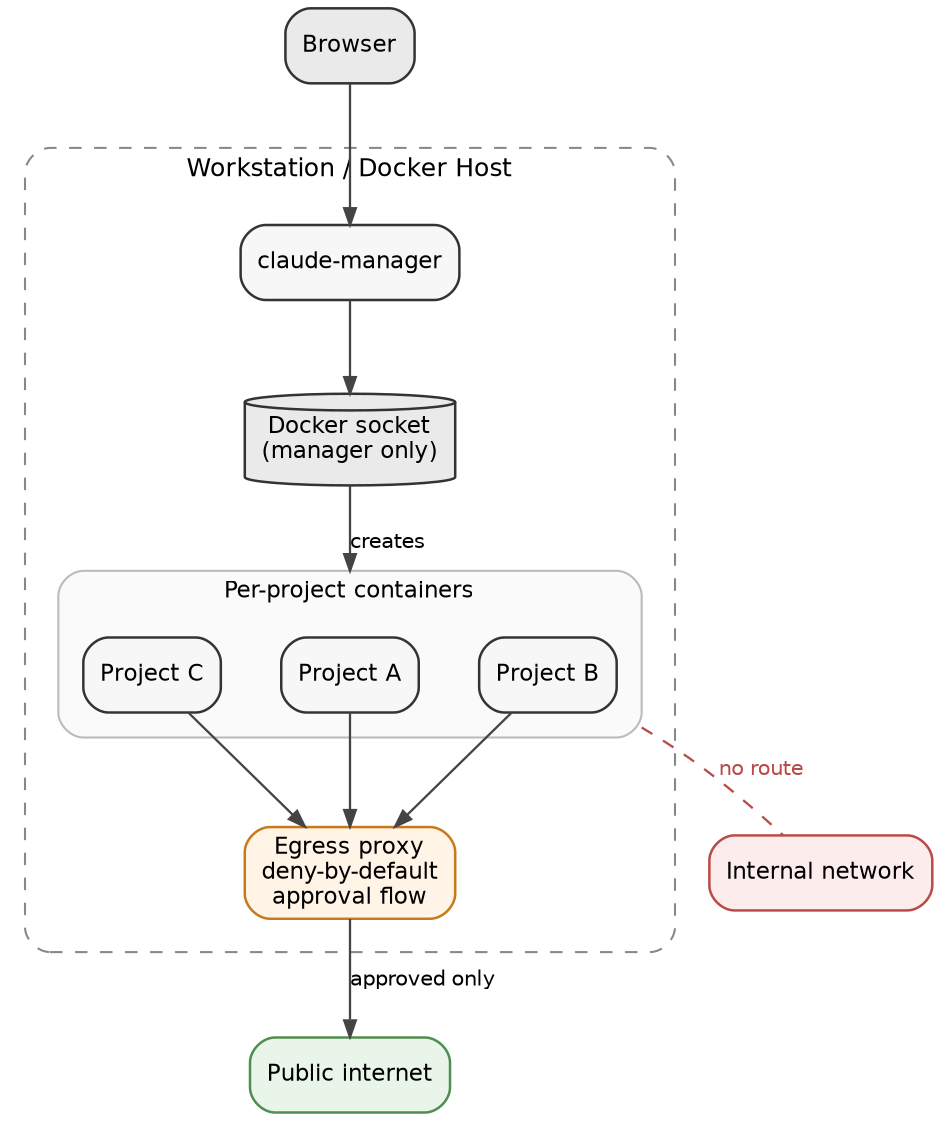
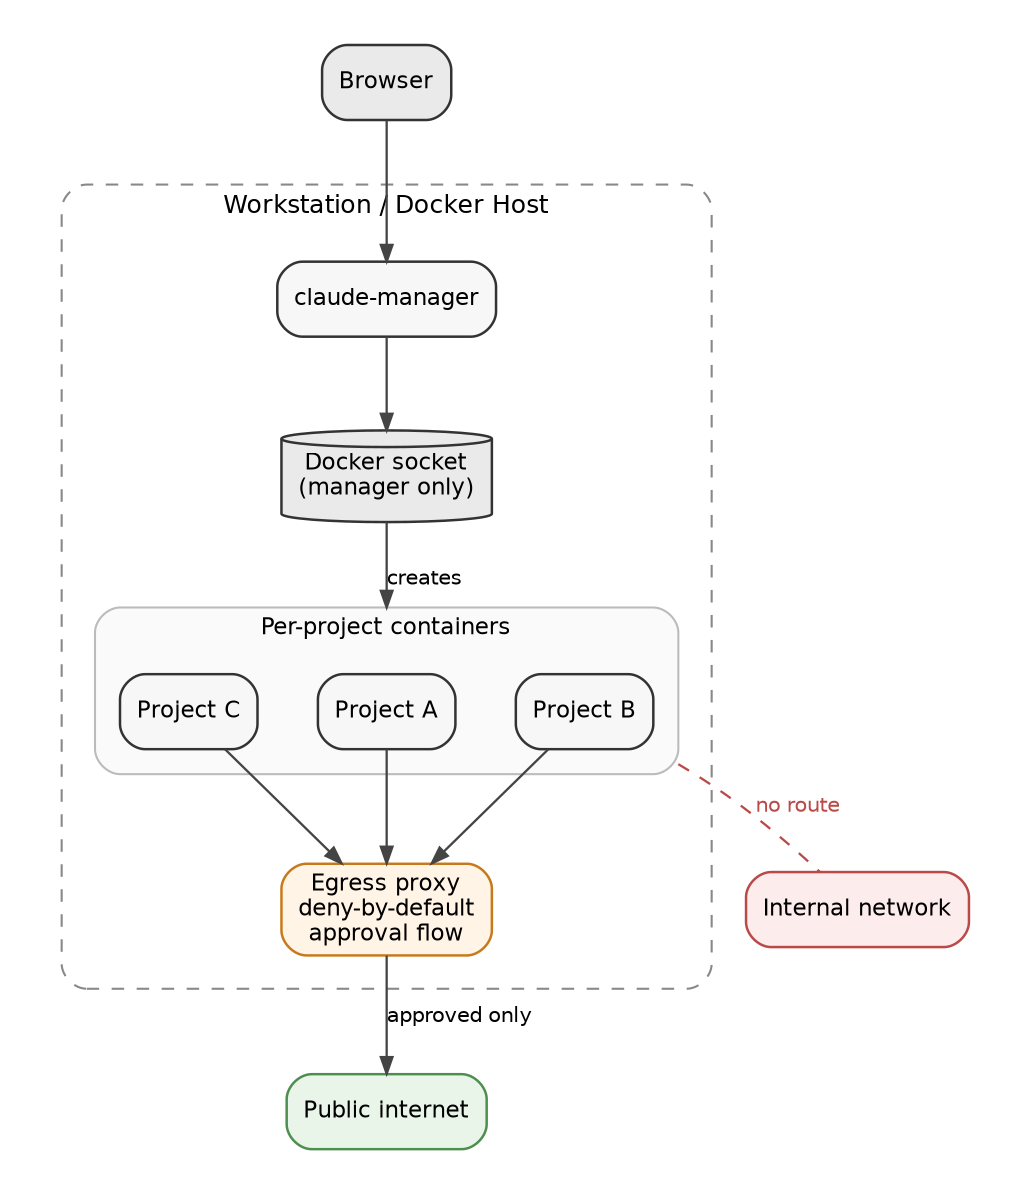
Post: new headline + white diagram bg for dark theme readability
Replace admin-workstation analogy in the title with an endpoint-framing
hook that doesn't require the reader to share that frame of reference.
Switch diagram bgcolor from transparent to white so dark text stays
readable when Minimal Mistakes is in dark mode.

diff --git a/_posts/2026-04-12-my-first-month-with-claude-code.md b/_posts/2026-04-12-my-first-month-with-claude-code.md
@@ -1,6 +1,6 @@
 ---
-title: "Running AI Agents Like Admin Workstations: Isolation, Host Access, and Network Boundaries"
-excerpt: "An AI agent that can write and execute code is a new kind of endpoint. Here's how I contain one."
+title: "Your AI coding agent is a new kind of endpoint. Here's how I contain mine."
+excerpt: "Containers, limited host access, and deny-by-default egress for AI coding agents."
 date: 2026-04-12
 last_modified_at: 2026-04-21
 categories:
